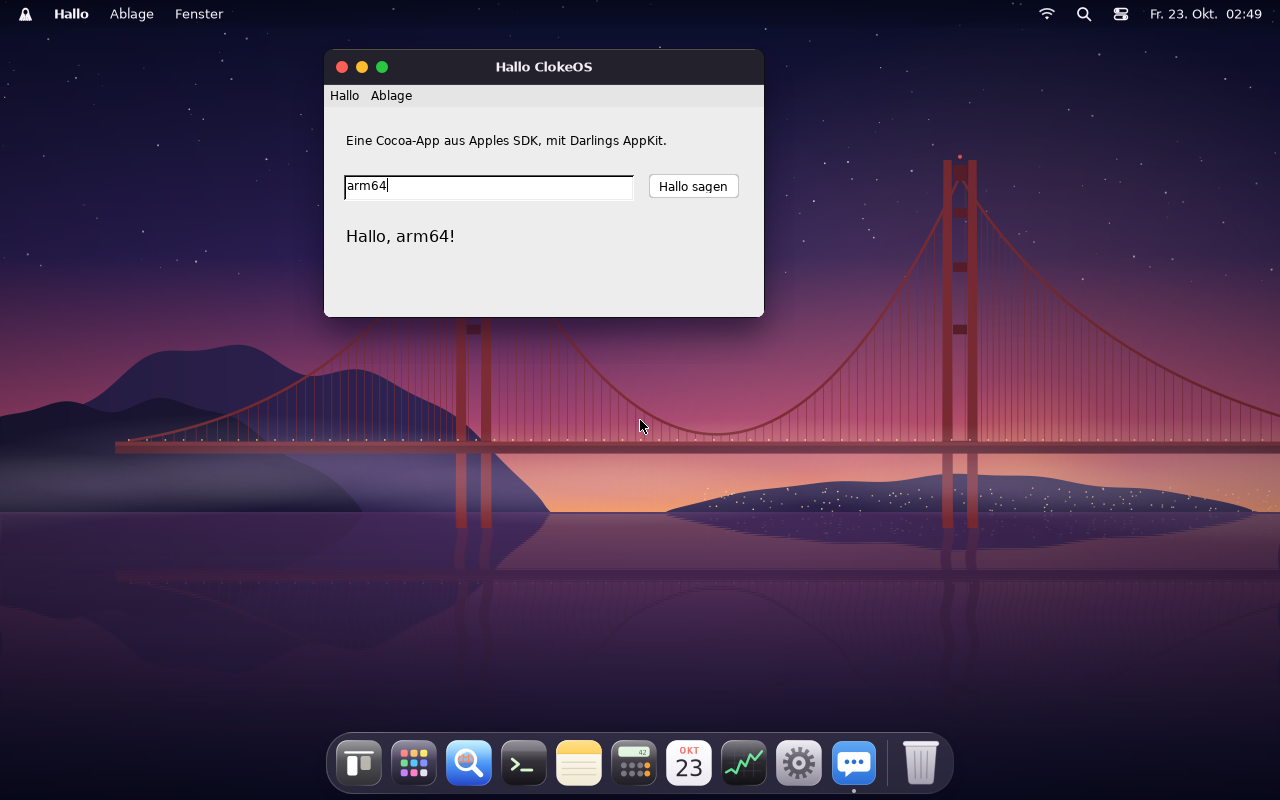
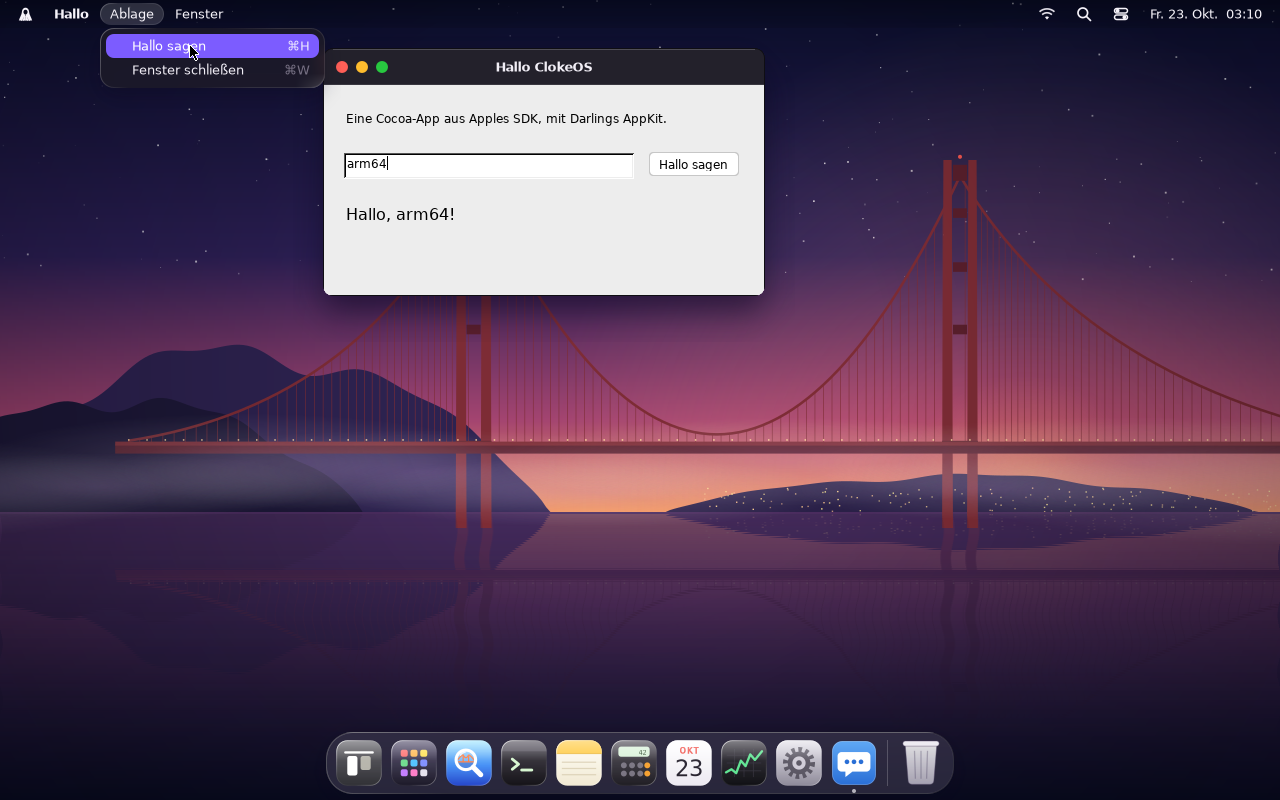
Mac-Programme: Hauptmenü in CloakServers globaler Menüleiste
Darlings AppKit legt das Hauptmenü jetzt wie bei macOS in die Leiste oben statt ins Fenster, über
CloakServers Protokoll aus f3ae429 (Eigenschaft _CLOKE_MENU, ClientMessage _CLOKE_MENU_ACTIVATE).

- macapps/appkit/clokemenu.m (im AppKit-X11-Backend, ohne Eingriff in Darlings Quellen):
  +[NSWindow hasMainMenuForStyleMask:] liefert NO (keine Menüzeile im Fenster); ein
  Run-Loop-Beobachter serialisiert [NSApp mainMenu] samt Validierung höchstens alle 0,2 s und setzt
  die Eigenschaft nur bei Änderung oder neuem Fenster (App-Menü weggelassen, Kürzel als ⌃⌥⇧⌘,
  Sperren, Haken, Untermenüs); -[X11Display postXEvent:] fängt die Auswahl ab und löst die Aktion
  über die Run-Loop aus, nicht im Rückruf der X-Quelle (modale Dialoge brauchen sie wieder).
  CLOKE_MENU_IM_FENSTER=1 lässt das Menü im Fenster.
- patches/darling-cocotron/AppKit/NSMenu.subproj/NSMenuItem.m.sed: Darling-Fehler,
  -initWithTitle:action:keyEquivalent: setzte keinen Modifikator (Apple: ⌘).

Geprüft in der arm64-VM: Hallo aus Launchpad (Ablage mit ⌘H/⌘W, Auswahl löst die Aktion aus, ⌘H über
die Tastatur), Test-App mit gesperrtem Eintrag, Haken, Untermenü (⌥⇧⌘T) und Fensterwechsel;
Programme im Leerlauf 0 % CPU. x86_64 übersetzt.

Changed region(s): [[0.25, 0.0938, 0.5625, 0.3125], [0.25, 0.3438, 0.5938, 0.4375], [0.0625, 0.0, 0.25, 0.0938]]

diff --git a/clokeos-darwin/macapps/appkit/clokemenu.m b/clokeos-darwin/macapps/appkit/clokemenu.m
@@ -1,0 +1,256 @@
+/* Globale Menüleiste für Darlings AppKit auf ClokeOS: das Hauptmenü des Programms steht wie bei macOS
+ * oben in CloakServers Leiste, nicht im Fenster.
+ *
+ * Protokoll (CloakServer, cloakserver.c, Abschnitt „Globale Menüleiste“):
+ *   - Eigenschaft _CLOKE_MENU (UTF8_STRING, Format 8) an jedem Fenster des Programms, eine Zeile je
+ *     Eintrag in Baumreihenfolge: "<tiefe>\t<art>\t<nummer>\t<merkmale>\t<text>\t<kürzel>\n"
+ *     tiefe 0 = Menü in der Leiste, 1 = dessen Einträge, 2 = Untermenü-Einträge;
+ *     art m (Untermenü), i (Eintrag), s (Trennlinie); merkmale d (gesperrt), c (Haken).
+ *     Das App-Menü (das erste) fehlt, CloakServer zeigt den Programmnamen selbst.
+ *   - Wählt der Benutzer einen Eintrag, kommt eine ClientMessage _CLOKE_MENU_ACTIVATE an das Fenster,
+ *     data.l[0] = Nummer.
+ *
+ * Umsetzung ohne Eingriff in Darlings Quellen:
+ *   - +[NSWindow hasMainMenuForStyleMask:] (in Cocotron eigens zum Überschreiben gedacht) liefert NO,
+ *     Fenster bekommen also keine Menüzeile (NSMainMenuView) und keine Höhe dafür.
+ *   - Ein Beobachter der Haupt-Run-Loop baut vor jedem Warten (höchstens alle 0,2 s) die Zeilen aus
+ *     [NSApp mainMenu] samt Validierung (-[NSMenu update]) und setzt die Eigenschaft nur, wenn sie sich
+ *     geändert hat oder ein Fenster neu ist.
+ *   - -[X11Display postXEvent:] fängt _CLOKE_MENU_ACTIVATE ab. Die Aktion läuft danach über
+ *     -[NSRunLoop performSelector:…] (wie WM_DELETE_WINDOW bei Darling), nicht im Rückruf der X-Quelle:
+ *     öffnet sie einen modalen Dialog, braucht dessen Run-Loop die X-Quelle wieder.
+ *
+ * CLOKE_MENU_IM_FENSTER=1 lässt alles wie bei Darling (Menü im Fenster, keine Eigenschaft). */
+#import "X11Display.h"
+#import "X11Window.h"
+#import <AppKit/NSApplication.h>
+#import <AppKit/NSMenu.h>
+#import <AppKit/NSMenuItem.h>
+#import <AppKit/NSWindow.h>
+#import <CoreFoundation/CoreFoundation.h>
+#import <objc/runtime.h>
+#include <X11/Xatom.h>
+#include <X11/Xlib.h>
+#include <stdlib.h>
+
+@interface ClokeMenu : NSObject
++ (void) activate: (NSNumber *) number;
+@end
+
+static NSMutableArray *clokeItems;           /* Nummer n -> clokeItems[n - 1] */
+static NSMutableString *clokeLast;           /* zuletzt gesetzte Zeilen */
+static NSMutableDictionary *clokeWindows;    /* X-Fenster -> Zeilen, die dort stehen */
+static CFAbsoluteTime clokeLastRun;
+static CFRunLoopTimerRef clokeTimer;
+static Atom atomMenu, atomActivate, atomUTF8;
+static void (*origPostXEvent)(id, SEL, XEvent *);
+
+/* "⌘S" usw. wie in macOS-Menüs */
+static NSString *clokeKey(NSMenuItem *item) {
+    NSString *k = [item keyEquivalent];
+    if ([k length] == 0)
+        return @"";
+    NSUInteger mods = [item keyEquivalentModifierMask];
+    unichar c = [k characterAtIndex: 0];
+    NSMutableString *s = [NSMutableString string];
+    if (mods & NSControlKeyMask)
+        [s appendString: @"⌃"];
+    if (mods & NSAlternateKeyMask)
+        [s appendString: @"⌥"];
+    if ((mods & NSShiftKeyMask) || (c >= 'A' && c <= 'Z'))
+        [s appendString: @"⇧"];
+    if (mods & NSCommandKeyMask)
+        [s appendString: @"⌘"];
+    switch (c) {
+    case '\r': case 3: [s appendString: @"↩"]; break;
+    case 27: [s appendString: @"⎋"]; break;
+    case '\t': [s appendString: @"⇥"]; break;
+    case ' ': [s appendString: @"Leertaste"]; break;
+    case 8: case 127: [s appendString: @"⌫"]; break;
+    case NSDeleteFunctionKey: [s appendString: @"⌦"]; break;
+    case NSUpArrowFunctionKey: [s appendString: @"↑"]; break;
+    case NSDownArrowFunctionKey: [s appendString: @"↓"]; break;
+    case NSLeftArrowFunctionKey: [s appendString: @"←"]; break;
+    case NSRightArrowFunctionKey: [s appendString: @"→"]; break;
+    default:
+        if (c >= NSF1FunctionKey && c <= NSF35FunctionKey)
+            [s appendFormat: @"F%d", (int) (c - NSF1FunctionKey + 1)];
+        else
+            [s appendString: [k uppercaseString]];
+    }
+    return s;
+}
+
+static NSString *clokeText(NSString *t) {
+    NSMutableString *s = [NSMutableString stringWithString: t ? t : @""];
+    [s replaceOccurrencesOfString: @"\t" withString: @" " options: 0 range: NSMakeRange(0, [s length])];
+    [s replaceOccurrencesOfString: @"\n" withString: @" " options: 0 range: NSMakeRange(0, [s length])];
+    return s;
+}
+
+static void clokeAdd(NSMutableString *out, NSMenu *menu, int depth) {
+    for (NSMenuItem *item in [menu itemArray]) {
+        if ([item isHidden])
+            continue;
+        if ([item isSeparatorItem]) {
+            if (depth > 0) {
+                [clokeItems addObject: item];
+                [out appendFormat: @"%d\ts\t%lu\t\t\t\n", depth, (unsigned long) [clokeItems count]];
+            }
+            continue;
+        }
+        NSMenu *sub = [item submenu];
+        if (depth == 0 && sub == nil)
+            continue;   /* in der Leiste stehen nur Menüs */
+        [clokeItems addObject: item];
+        NSString *flags = [NSString stringWithFormat: @"%@%@", [item isEnabled] ? @"" : @"d",
+                                                     [item state] == NSOnState ? @"c" : @""];
+        [out appendFormat: @"%d\t%@\t%lu\t%@\t%@\t%@\n", depth, sub ? @"m" : @"i", (unsigned long) [clokeItems count],
+                          flags, clokeText([item title]), sub ? @"" : clokeKey(item)];
+        if (sub != nil && depth < 2)
+            clokeAdd(out, sub, depth + 1);
+    }
+}
+
+static void clokeUpdate(void) {
+    clokeLastRun = CFAbsoluteTimeGetCurrent();
+    NSApplication *app = NSApp;
+    NSMenu *main = [app mainMenu];
+    X11Display *display = (X11Display *) [NSDisplay currentDisplay];
+    if (main == nil || ![display isKindOfClass: [X11Display class]])
+        return;
+    Display *dpy = [display display];
+    if (atomMenu == None) {
+        atomMenu = XInternAtom(dpy, "_CLOKE_MENU", False);
+        atomUTF8 = XInternAtom(dpy, "UTF8_STRING", False);
+    }
+
+    [main update];   /* Validierung (validateMenuItem: …), wie vor dem Öffnen eines Menüs */
+    NSMutableString *out = [NSMutableString string];
+    [clokeItems removeAllObjects];
+    NSArray *top = [main itemArray];
+    /* Das erste Menü ist das App-Menü (Programmname): CloakServer zeigt es selbst */
+    for (NSUInteger i = 1; i < [top count]; i++) {
+        NSMenuItem *item = [top objectAtIndex: i];
+        if ([item isHidden] || [item submenu] == nil)
+            continue;
+        [clokeItems addObject: item];
+        [out appendFormat: @"0\tm\t%lu\t%@\t%@\t\n", (unsigned long) [clokeItems count],
+                          [item isEnabled] ? @"" : @"d", clokeText([item title])];
+        clokeAdd(out, [item submenu], 1);
+    }
+    BOOL changed = ![out isEqualToString: clokeLast];
+    if (changed)
+        [clokeLast setString: out];
+
+    NSData *bytes = [out dataUsingEncoding: NSUTF8StringEncoding];
+    NSMutableDictionary *seen = [NSMutableDictionary dictionary];
+    BOOL flush = NO;
+    for (NSWindow *w in [app windows]) {
+        id pw = [w platformWindow];
+        if (![pw isKindOfClass: [X11Window class]])
+            continue;
+        Window xw = [(X11Window *) pw windowHandle];
+        if (xw == None)
+            continue;
+        NSNumber *key = [NSNumber numberWithUnsignedLong: xw];
+        [seen setObject: clokeLast forKey: key];
+        if (!changed && [clokeWindows objectForKey: key] != nil)
+            continue;
+        XChangeProperty(dpy, xw, atomMenu, atomUTF8, 8, PropModeReplace, [bytes bytes], (int) [bytes length]);
+        flush = YES;
+    }
+    [clokeWindows setDictionary: seen];
+    if (flush)
+        XFlush(dpy);
+}
+
+static void clokeTimerFired(CFRunLoopTimerRef t, void *info) {
+    @autoreleasepool {
+        clokeUpdate();
+    }
+}
+
+static void clokeObserver(CFRunLoopObserverRef o, CFRunLoopActivity act, void *info) {
+    @autoreleasepool {
+        CFAbsoluteTime now = CFAbsoluteTimeGetCurrent();
+        if (now - clokeLastRun >= 0.2) {
+            clokeUpdate();
+        } else if (CFRunLoopTimerGetNextFireDate(clokeTimer) < now) {
+            /* bald noch einmal, damit die letzte Änderung nicht liegen bleibt */
+            CFRunLoopTimerSetNextFireDate(clokeTimer, clokeLastRun + 0.21);
+        }
+    }
+}
+
+@implementation ClokeMenu
+
++ (void) activate: (NSNumber *) number {
+    NSUInteger n = [number unsignedIntegerValue];
+    if (n == 0 || n > [clokeItems count])
+        return;
+    NSMenuItem *item = [clokeItems objectAtIndex: n - 1];
+    if ([item submenu] != nil || [item isSeparatorItem])
+        return;
+    [[item menu] update];
+    if (![item isEnabled])
+        return;
+    [NSApp sendAction: [item action] to: [item target] from: item];
+    clokeLastRun = 0;   /* Haken und Sperren gleich neu melden */
+}
+
+@end
+
+static void clokePostXEvent(id self, SEL _cmd, XEvent *ev) {
+    if (ev->type == ClientMessage && ev->xclient.format == 32) {
+        if (atomActivate == None)
+            atomActivate = XInternAtom(ev->xclient.display, "_CLOKE_MENU_ACTIVATE", False);
+        if (ev->xclient.message_type == atomActivate) {
+            NSNumber *n = [NSNumber numberWithLong: ev->xclient.data.l[0]];
+            [[NSRunLoop currentRunLoop] performSelector: @selector(activate:)
+                                                 target: [ClokeMenu class]
+                                               argument: n
+                                                  order: 0
+                                                  modes: @[ NSDefaultRunLoopMode, NSModalPanelRunLoopMode,
+                                                            NSEventTrackingRunLoopMode ]];
+            return;
+        }
+    }
+    origPostXEvent(self, _cmd, ev);
+}
+
+static BOOL clokeNoMenuInWindow(id self, SEL _cmd, NSWindowStyleMask mask) {
+    return NO;
+}
+
+@implementation X11Display (ClokeMenu)
+
++ (void) load {
+    const char *env = getenv("CLOKE_MENU_IM_FENSTER");
+    if (env != NULL && *env && strcmp(env, "0") != 0)
+        return;
+    clokeItems = [[NSMutableArray alloc] init];
+    clokeLast = [[NSMutableString alloc] init];
+    clokeWindows = [[NSMutableDictionary alloc] init];
+
+    /* Fenster ohne Menüzeile: NSWindow und alle Unterklassen, die es nicht selbst überschreiben */
+    Method m = class_getClassMethod([NSWindow class], @selector(hasMainMenuForStyleMask:));
+    if (m != NULL)
+        method_setImplementation(m, (IMP) clokeNoMenuInWindow);
+
+    Method p = class_getInstanceMethod(self, @selector(postXEvent:));
+    if (p != NULL)
+        origPostXEvent = (void (*)(id, SEL, XEvent *)) method_setImplementation(p, (IMP) clokePostXEvent);
+
+    CFRunLoopRef main = CFRunLoopGetMain();
+    CFRunLoopObserverRef obs = CFRunLoopObserverCreate(NULL, kCFRunLoopBeforeWaiting, true, 0, clokeObserver, NULL);
+    clokeTimer = CFRunLoopTimerCreate(NULL, 1e12, 1e12, 0, 0, clokeTimerFired, NULL);
+    CFRunLoopAddObserver(main, obs, kCFRunLoopCommonModes);
+    CFRunLoopAddTimer(main, clokeTimer, kCFRunLoopCommonModes);
+    for (NSString *mode in @[ NSDefaultRunLoopMode, NSModalPanelRunLoopMode, NSEventTrackingRunLoopMode ]) {
+        CFRunLoopAddObserver(main, obs, (CFStringRef) mode);
+        CFRunLoopAddTimer(main, clokeTimer, (CFStringRef) mode);
+    }
+}
+
+@end

diff --git a/README.md b/README.md
@@ -104,7 +104,7 @@ CloakServer (`clokeos-darwin/cloakserver/`) ist der Fensterserver von ClokeOS, z
 
 - Hintergrund „Goldenes Tor“: `drawBay()` aus `clokeos.html` Zeile für Zeile nach cairo übertragen (`wall.c`), mit demselben Zufallsgenerator, damit Sterne, Lichter und Nebel an denselben Stellen sitzen; hell am Tag, dunkel von 19 bis 7 Uhr
 - Menüleiste: ClokeOS-Menü (Über ClokeOS, Systemeinstellungen, Aktivitätsanzeige, Programme, Ruhezustand, Neustart … und Ausschalten … mit Rückfrage, Abmelden), Name des aktiven Programms mit Menü (ausblenden, beenden), Ablage (neues Fenster, Fenster schließen), Fenster (ins Dock, zoomen, Liste der Fenster), Netzwerk mit IP-Adresse, Suche (öffnet das Launchpad), Erscheinungsbild (automatisch, hell, dunkel) und Uhr mit Datum
-- Globale Menüleiste wie bei macOS: Die Menüs des aktiven Programms stehen oben in der Leiste neben dem Umhang und nicht im Fenster, mit Untermenüs, Häkchen und Tastenkürzeln in der Schreibweise von macOS (⌃⌥⇧⌘). GTK-Programme wie Fundus (Thunar) und Terminal geben ihre Menüleiste über das GTK-Modul `appmenu-gtk-module` per D-Bus heraus. Es stammt aus vala-panel-appmenu 25.04 (LGPL-3), mit einem kleinen Patch für Darwin und für die Kürzel (`menubar/appmenu-clokeos.patch`). Der Helfer `cloakmenu` liest die Menüs als angemeldeter Benutzer und gibt sie zeilenweise an CloakServer weiter; er belegt dazu `com.canonical.AppMenu.Registrar`, sonst zeigt GTK die Leiste weiter im Fenster. Über XSETTINGS (`Gtk/ShellShowsMenubar`) blendet GTK sie im Fenster aus. Für Mac-Programme gibt es die Fenstereigenschaft `_CLOKE_MENU`, die Darlings AppKit noch nicht setzt. Zum Testen ohne Fenster kennt `vmctl.py` dafür `click`, `move`, `xkey` und `type`
+- Globale Menüleiste wie bei macOS: Die Menüs des aktiven Programms stehen oben in der Leiste neben dem Umhang und nicht im Fenster, mit Untermenüs, Häkchen und Tastenkürzeln in der Schreibweise von macOS (⌃⌥⇧⌘). GTK-Programme wie Fundus (Thunar) und Terminal geben ihre Menüleiste über das GTK-Modul `appmenu-gtk-module` per D-Bus heraus. Es stammt aus vala-panel-appmenu 25.04 (LGPL-3), mit einem kleinen Patch für Darwin und für die Kürzel (`menubar/appmenu-clokeos.patch`). Der Helfer `cloakmenu` liest die Menüs als angemeldeter Benutzer und gibt sie zeilenweise an CloakServer weiter; er belegt dazu `com.canonical.AppMenu.Registrar`, sonst zeigt GTK die Leiste weiter im Fenster. Über XSETTINGS (`Gtk/ShellShowsMenubar`) blendet GTK sie im Fenster aus. Mac-Programme legen ihr Menü als Fenstereigenschaft `_CLOKE_MENU` ab; Darlings AppKit tut das (`macapps/appkit/clokemenu.m`). Zum Testen ohne Fenster kennt `vmctl.py` dafür `click`, `move`, `xkey` und `type`
 - Dock mit den Icons aus `clokeos.html`, Laufanzeigen, Namensschild beim Überfahren und Kontextmenü auf der rechten Maustaste (Öffnen, Im Dock behalten oder Aus dem Dock entfernen, Im Fundus zeigen, Beenden); ein Klick startet das Programm oder holt seine Fenster zurück. Wie bei macOS steht Fundus vorn, dahinter die behaltenen Programme, dann laufende andere, Trennstrich und Papierkorb. Das Dock steht unten, links oder rechts, in drei Größen, und wird von selbst kleiner, wenn es sonst nicht auf den Bildschirm passt; Fenster weichen ihm beim Zoomen aus. Ein startendes Programm lässt sein Symbol hüpfen. Icons, deren Bild die Fläche nicht füllt, wie der Papierkorb, zieht CloakServer auf die Höhe der übrigen und setzt sie in die Mitte; der volle Papierkorb steht genau dort, wo der leere stand. Im Dunkelmodus ist das Dock helleres, violett getöntes Glas, damit es sich vom Abendhimmel abhebt
 - Compositor (`comp.c`): CloakServer setzt das Bild selbst zusammen (X-Erweiterungen Composite, Damage, XFixes, Render). Fenster bekommen weiche Schatten und runde Ecken ohne Treppchen, das aktive einen größeren Schatten. Dock, Menüs und Namensschilder sind Glas: Sie zeigen unscharf, was dahinter liegt, auch Fenster, mit Tönung und Lichtkante wie im Liquid-Glass-Stil des Prototyps. Neu gezeichnet wird nur, was sich geändert hat; unter Emulation kostet ein ganzes Bild 100 bis 300 ms, ein Teilbild meist 50 bis 60 ms, ein blinkender Cursor 5 bis 15 ms. CloakServer meldet sich als Compositor (`_NET_WM_CM_S0`), GTK-Programme mit eigener Durchsicht bekommen dann 32-Bit-Rahmen. Fehlt Composite, oder mit `--compositor aus`, arbeitet CloakServer wie zuvor ohne Compositor; das Glas zeigt dann nur das Hintergrundbild, die Ecken schneidet XShape ab.
 - Animationen (nur mit Compositor): Neue Fenster wachsen aus 94 % Größe und blenden ein, „Ins Dock“ lässt das Fenster zu seinem Dock-Symbol schrumpfen und fliegen, ein Klick aufs Symbol holt es auf demselben Weg zurück
@@ -146,7 +146,7 @@ Die Systemprogramme erzeugt `cloakserver/bundles.py` beim Bauen; ihre Startdatei
 | Dillo | `/Applications` | der Browser Dillo, als Beispiel für ein nachinstalliertes Programm |
 | Papierkorb (im Dock) | | Thunar in `~/.Trash` |
 
-**Mac-Programme.** ClokeOS ist Darwin 20.5, also der Unterbau von macOS 11, und führt Mach-O-Programme seiner Architektur aus (x86_64, auf arm64 arm64). Ein Kommandozeilenprogramm, auf dem Mac mit Apples SDK gebaut (`clang -target x86_64-apple-macos11.0`), läuft unverändert. Für Programme mit Fenstern bringt das Desktop-Image Darlings Mac-Frameworks mit, gebaut für ClokeOS auf PureDarwins echtem objc4 und dyld (`clokeos-darwin/macapps/`): CoreFoundation, Foundation, AppKit, Cocoa, CoreGraphics, CoreText, QuartzCore und weitere unter `/Library/ClokeOS/MacFrameworks`. AppKit zeichnet in Software und kopiert jedes Fenster per XShm zu CloakServer (auf arm64 per XPutImage), das es mit Titelleiste, Ampel und Schatten verwaltet wie jedes andere Fenster. Beispiel ist `Hallo.app` in `/Applications`, eine kleine Cocoa-App, mit Apples SDK universal gebaut (x86_64 und arm64 in einer Datei): Sie startet aus Launchpad und Dock, hat Menü, Textfeld und Knopf, reagiert auf Maus und Tastatur und beendet sich mit der roten Ampel.
+**Mac-Programme.** ClokeOS ist Darwin 20.5, also der Unterbau von macOS 11, und führt Mach-O-Programme seiner Architektur aus (x86_64, auf arm64 arm64). Ein Kommandozeilenprogramm, auf dem Mac mit Apples SDK gebaut (`clang -target x86_64-apple-macos11.0`), läuft unverändert. Für Programme mit Fenstern bringt das Desktop-Image Darlings Mac-Frameworks mit, gebaut für ClokeOS auf PureDarwins echtem objc4 und dyld (`clokeos-darwin/macapps/`): CoreFoundation, Foundation, AppKit, Cocoa, CoreGraphics, CoreText, QuartzCore und weitere unter `/Library/ClokeOS/MacFrameworks`. AppKit zeichnet in Software und kopiert jedes Fenster per XShm zu CloakServer (auf arm64 per XPutImage), das es mit Titelleiste, Ampel und Schatten verwaltet wie jedes andere Fenster. Beispiel ist `Hallo.app` in `/Applications`, eine kleine Cocoa-App, mit Apples SDK universal gebaut (x86_64 und arm64 in einer Datei): Sie startet aus Launchpad und Dock, hat Menü, Textfeld und Knopf, reagiert auf Maus und Tastatur und beendet sich mit der roten Ampel. Das Hauptmenü eines Mac-Programms steht wie bei macOS oben in CloakServers Menüleiste, nicht im Fenster, mit Kürzeln wie ⌘H, gesperrten Einträgen, Haken und Untermenüs (`macapps/appkit/clokemenu.m`).
 
 ![Hallo in ClokeOS: ein Fenster „Hallo ClokeOS“ mit Menü Hallo und Ablage, Textfeld „ClokeOS“, Knopf „Hallo sagen“ und der Antwort „Hallo, ClokeOS!“; in der Menüleiste steht Hallo, im Dock das Icon mit Laufpunkt](clokeos-darwin/mac-app-hallo.png)
 
@@ -165,7 +165,7 @@ Grenzen:
 - Die Unschärfe ist eine Näherung: Der Compositor verkleinert den Hintergrund viermal auf die Hälfte und zieht ihn wieder auf. Titelleisten sind deckend, nicht aus Glas.
 - Animationen ruckeln unter Emulation: Ein Bild der bewegten Fläche kostet dort 150 bis 800 ms. Damit eine Animation nicht in einem Sprung endet, zeigt CloakServer jede in mindestens vier Bildern; „Ins Dock“ dauert in QEMU so gut 1 s, das Zurückholen eines großen Terminals 3 s, gedacht sind 0,34 und 0,3 s.
 - Die Programme sind englisch, denn PureDarwins libc kennt keine deutsche Locale (`Locale not supported by C library`). Ihre Menüs stehen im Programmfenster, nicht in der Menüleiste.
-- Mac-Programme mit Fenstern laufen nur, soweit Darlings AppKit reicht (siehe oben): Das Menü steht im Fenster statt in der Menüleiste, Views mit Layern bleiben leer, Schriften wie „San Francisco“ fehlen. Programme nur für Apple-Chips starten nicht. Die Mac-Frameworks kommen nur ins Image, wenn ihre Quellen geladen sind (`macapps/README.md`). Fundus (Thunar) zeigt `.app`-Pakete als Ordner, ein Doppelklick öffnet den Ordner statt das Programm; gestartet wird aus Launchpad oder Dock. Icons aus Asset-Katalogen (`Assets.car`) kann CloakServer nicht lesen, nur `.icns`, PNG und SVG.
+- Mac-Programme mit Fenstern laufen nur, soweit Darlings AppKit reicht (siehe oben): Views mit Layern bleiben leer, Schriften wie „San Francisco“ fehlen. Programme nur für Apple-Chips starten nicht. Die Mac-Frameworks kommen nur ins Image, wenn ihre Quellen geladen sind (`macapps/README.md`). Fundus (Thunar) zeigt `.app`-Pakete als Ordner, ein Doppelklick öffnet den Ordner statt das Programm; gestartet wird aus Launchpad oder Dock. Icons aus Asset-Katalogen (`Assets.car`) kann CloakServer nicht lesen, nur `.icns`, PNG und SVG.
 - Bei Emulation brauchen Programme 10 bis 25 Sekunden zum Start.
 - Konten legt nur `brand.sh` an. Eine Benutzerverwaltung in den Systemeinstellungen fehlt ebenso wie su und sudo; als Gast gibt es keine Verwaltungsrechte, dafür meldet man sich als System Administrator an.
 - Auf arm64 starten Mac-Programme nicht, deren Code `___chkstk_darwin` aufruft (siehe [Desktop auf arm64](#desktop-auf-arm64)).
@@ -196,7 +196,7 @@ Mac-Programme: arm64-Kommandozeilenprogramme aus Apples SDK laufen (auch mit „
 
 #### Mac-Programme mit Fenstern auf arm64
 
-![Hallo auf arm64: das Fenster „Hallo ClokeOS“ mit Menü, Textfeld „arm64“ und der Antwort „Hallo, arm64!“, gestartet aus Launchpad als Gast; Menüleiste „Hallo“, Laufpunkt im Dock](clokeos-darwin/mac-app-hallo-arm64.png)
+![Hallo auf arm64, aus Launchpad als Gast gestartet: oben in der Menüleiste ist Hallos Menü „Ablage“ mit „Hallo sagen ⌘H“ und „Fenster schließen ⌘W“ geöffnet, im Fenster ohne eigene Menüzeile steht „Hallo, arm64!“](clokeos-darwin/mac-app-hallo-arm64.png)
 
 Seit dem 23.10.2026 laufen Darlings Mac-Frameworks auch auf arm64. `CLOKEOS_ARCH=arm64 CLOKEOS_FLAVOR=desktop ./brand.sh` baut sie mit `macapps/foundation.sh` und `appkit.sh` für arm64 (nach `~/ClokeOS-work/out/macapps-arm64`) und legt sie samt `Hallo.app` ins Image. Aus Launchpad gestartet, als Gast, steht Hallos Fenster nach 0,12 bis 0,24 s da (fünf Messungen mit HVF; x86_64 emuliert: 3,5 s); Tippen, Knopf, Menü und Beenden gehen wie auf x86_64. Was dafür nötig war:
 

diff --git a/clokeos-darwin/macapps/README.md b/clokeos-darwin/macapps/README.md
@@ -67,6 +67,9 @@ Dateien:
   Darling.
 - `appkit/x11present.m`: AppKit-Fenster ohne OpenGL auf den Bildschirm (XShmPutImage, sonst
   XPutImage). `CLOKE_X11_DEBUG=1` zeigt Weg und Dauer, `CLOKE_NO_XSHM=1` erzwingt XPutImage.
+- `appkit/clokemenu.m`: Hauptmenü in CloakServers globaler Menüleiste statt im Fenster (Eigenschaft
+  `_CLOKE_MENU`, Rückmeldung `_CLOKE_MENU_ACTIVATE`), ohne Eingriff in Darlings Quellen.
+  `CLOKE_MENU_IM_FENSTER=1` zeigt das Menü wieder im Fenster.
 - `appkit/imageio.m`: ImageIO (CGImageSource, CGImageDestination) über Onyx2D.
 - `appkit/xkbrules.c`: die eine Funktion aus libxkbfile, die PureDarwin fehlt.
 - `appkit/sysstubs.c`: Platzhalter für OpenGL, IOKit und LaunchServices, nicht exportiert.
